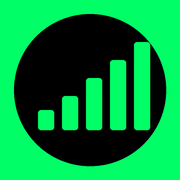
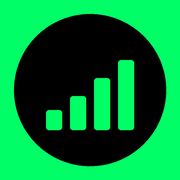
Icono: 4 bars centradas + fix bleed verde del interior
- Reduce de 5 a 4 barras y las re-centra en el círculo (spacing 24,
  centros 54/78/102/126).
- Elimina el tinte verdoso del interior del círculo: el LANCZOS
  resampleaba la transición verde→negro produciendo un anillo de bleed
  que se notaba en todo el interior. Ahora se aplica una máscara con
  feather sutil sobre un layer negro puro, preservando el AA del borde
  exterior pero forzando el interior a (0,0,0).
- Cache-buster ?v=2 en el link del apple-touch-icon para que iOS
  baje la versión nueva en lugar de servir la cacheada.

Changed region(s): [[0.6944, 0.2222, 0.8611, 0.75], [0.1944, 0.4167, 0.5278, 0.75], [0.5556, 0.3333, 0.6667, 0.75]]

diff --git a/index.html b/index.html
@@ -8,8 +8,8 @@
 <meta name="mobile-web-app-capable" content="yes">
 <meta name="apple-mobile-web-app-status-bar-style" content="black-translucent">
 <meta name="apple-mobile-web-app-title" content="Wealth">
-<link rel="apple-touch-icon" sizes="180x180" href="apple-touch-icon.png">
-<link rel="icon" type="image/png" sizes="180x180" href="apple-touch-icon.png">
+<link rel="apple-touch-icon" sizes="180x180" href="apple-touch-icon.png?v=2">
+<link rel="icon" type="image/png" sizes="180x180" href="apple-touch-icon.png?v=2">
 <meta name="robots" content="noindex,nofollow,noarchive,nosnippet">
 <meta name="googlebot" content="noindex,nofollow">
 <title>Wealth Dashboard</title>

diff --git a/make_icon.py b/make_icon.py
@@ -1,44 +1,58 @@
 """Genera apple-touch-icon.png 180x180.
 
 Icono inverso: frame verde saturado (#00ff66) + círculo negro adentro
-+ 5 barras verdes saturadas ascendentes adentro del círculo.
-Renderizado a 4x supersample y reducido con LANCZOS para AA.
++ 4 barras verdes saturadas ascendentes centradas.
+
+Técnica para evitar el bleed verde dentro del círculo: el frame se
+renderiza a 4x con LANCZOS (borde verde→negro suave por AA), luego se
+sobreescribe el interior con negro puro vía máscara con feather. Las
+barras se renderizan también a 4x para que tengan bordes AA limpios.
 """
-from PIL import Image, ImageDraw
+from PIL import Image, ImageDraw, ImageFilter
 
 SIZE = 180
 SCALE = 4
 S = SIZE * SCALE
 
 BLACK = (0, 0, 0, 255)
-GREEN = (0, 255, 102, 255)  # #00ff66 — dashboard green saturado
+GREEN = (0, 255, 102, 255)  # #00ff66 — dashboard saturado
+PAD = 14  # padding del frame verde (en coords 180)
 
-# Frame verde saturado + círculo negro inset
-img = Image.new('RGBA', (S, S), GREEN)
-d = ImageDraw.Draw(img)
-PAD = 14 * SCALE
-d.ellipse([PAD, PAD, S - PAD, S - PAD], fill=BLACK)
+# === 1) Frame verde + círculo negro a supersample, luego LANCZOS ===
+big = Image.new('RGBA', (S, S), GREEN)
+bd = ImageDraw.Draw(big)
+bd.ellipse([PAD * SCALE, PAD * SCALE, S - PAD * SCALE, S - PAD * SCALE], fill=BLACK)
+frame = big.resize((SIZE, SIZE), Image.LANCZOS)
 
-# 5 barras verdes ascendentes adentro del círculo negro
+# === 2) Eliminar bleed verde del interior ===
+# Máscara: blanco sólido en el interior del círculo (con inset), feather suave
+INNER_PAD = PAD + 3  # 3 px adentro del borde para limpiar la zona de bleed
+mask = Image.new('L', (SIZE, SIZE), 0)
+md = ImageDraw.Draw(mask)
+md.ellipse([INNER_PAD, INNER_PAD, SIZE - INNER_PAD, SIZE - INNER_PAD], fill=255)
+mask = mask.filter(ImageFilter.GaussianBlur(radius=0.6))
+
+# Composite: donde mask=255 → negro puro; donde mask=0 → frame original
+black_layer = Image.new('RGBA', (SIZE, SIZE), BLACK)
+final = Image.composite(black_layer, frame, mask)
+
+# === 3) Barras verdes a supersample con AA, composite encima ===
 BAR_W = 16
 Y_BASE = 130
 RADIUS = 3
-bars = [
-    (46, 110),
-    (70, 96),
-    (94, 78),
-    (118, 60),
-    (142, 42),
-]
+bars = [(54, 110), (78, 96), (102, 78), (126, 60)]
+
+bars_big = Image.new('RGBA', (S, S), (0, 0, 0, 0))
+ld = ImageDraw.Draw(bars_big)
 for cx, ytop in bars:
     x1 = (cx - BAR_W // 2) * SCALE
     x2 = (cx + BAR_W // 2) * SCALE
-    d.rounded_rectangle(
+    ld.rounded_rectangle(
         [x1, ytop * SCALE, x2, Y_BASE * SCALE],
         radius=RADIUS * SCALE, fill=GREEN
     )
+bars_180 = bars_big.resize((SIZE, SIZE), Image.LANCZOS)
+final.alpha_composite(bars_180)
 
-img.resize((SIZE, SIZE), Image.LANCZOS).save(
-    '/Users/juank4835/Documents/wealth-portal/apple-touch-icon.png'
-)
-print(f'Saved {SIZE}x{SIZE} apple-touch-icon.png (inverted, max sat)')
+final.save('/Users/juank4835/Documents/wealth-portal/apple-touch-icon.png')
+print(f'Saved {SIZE}x{SIZE} apple-touch-icon.png (4 bars centradas, interior pure black)')
